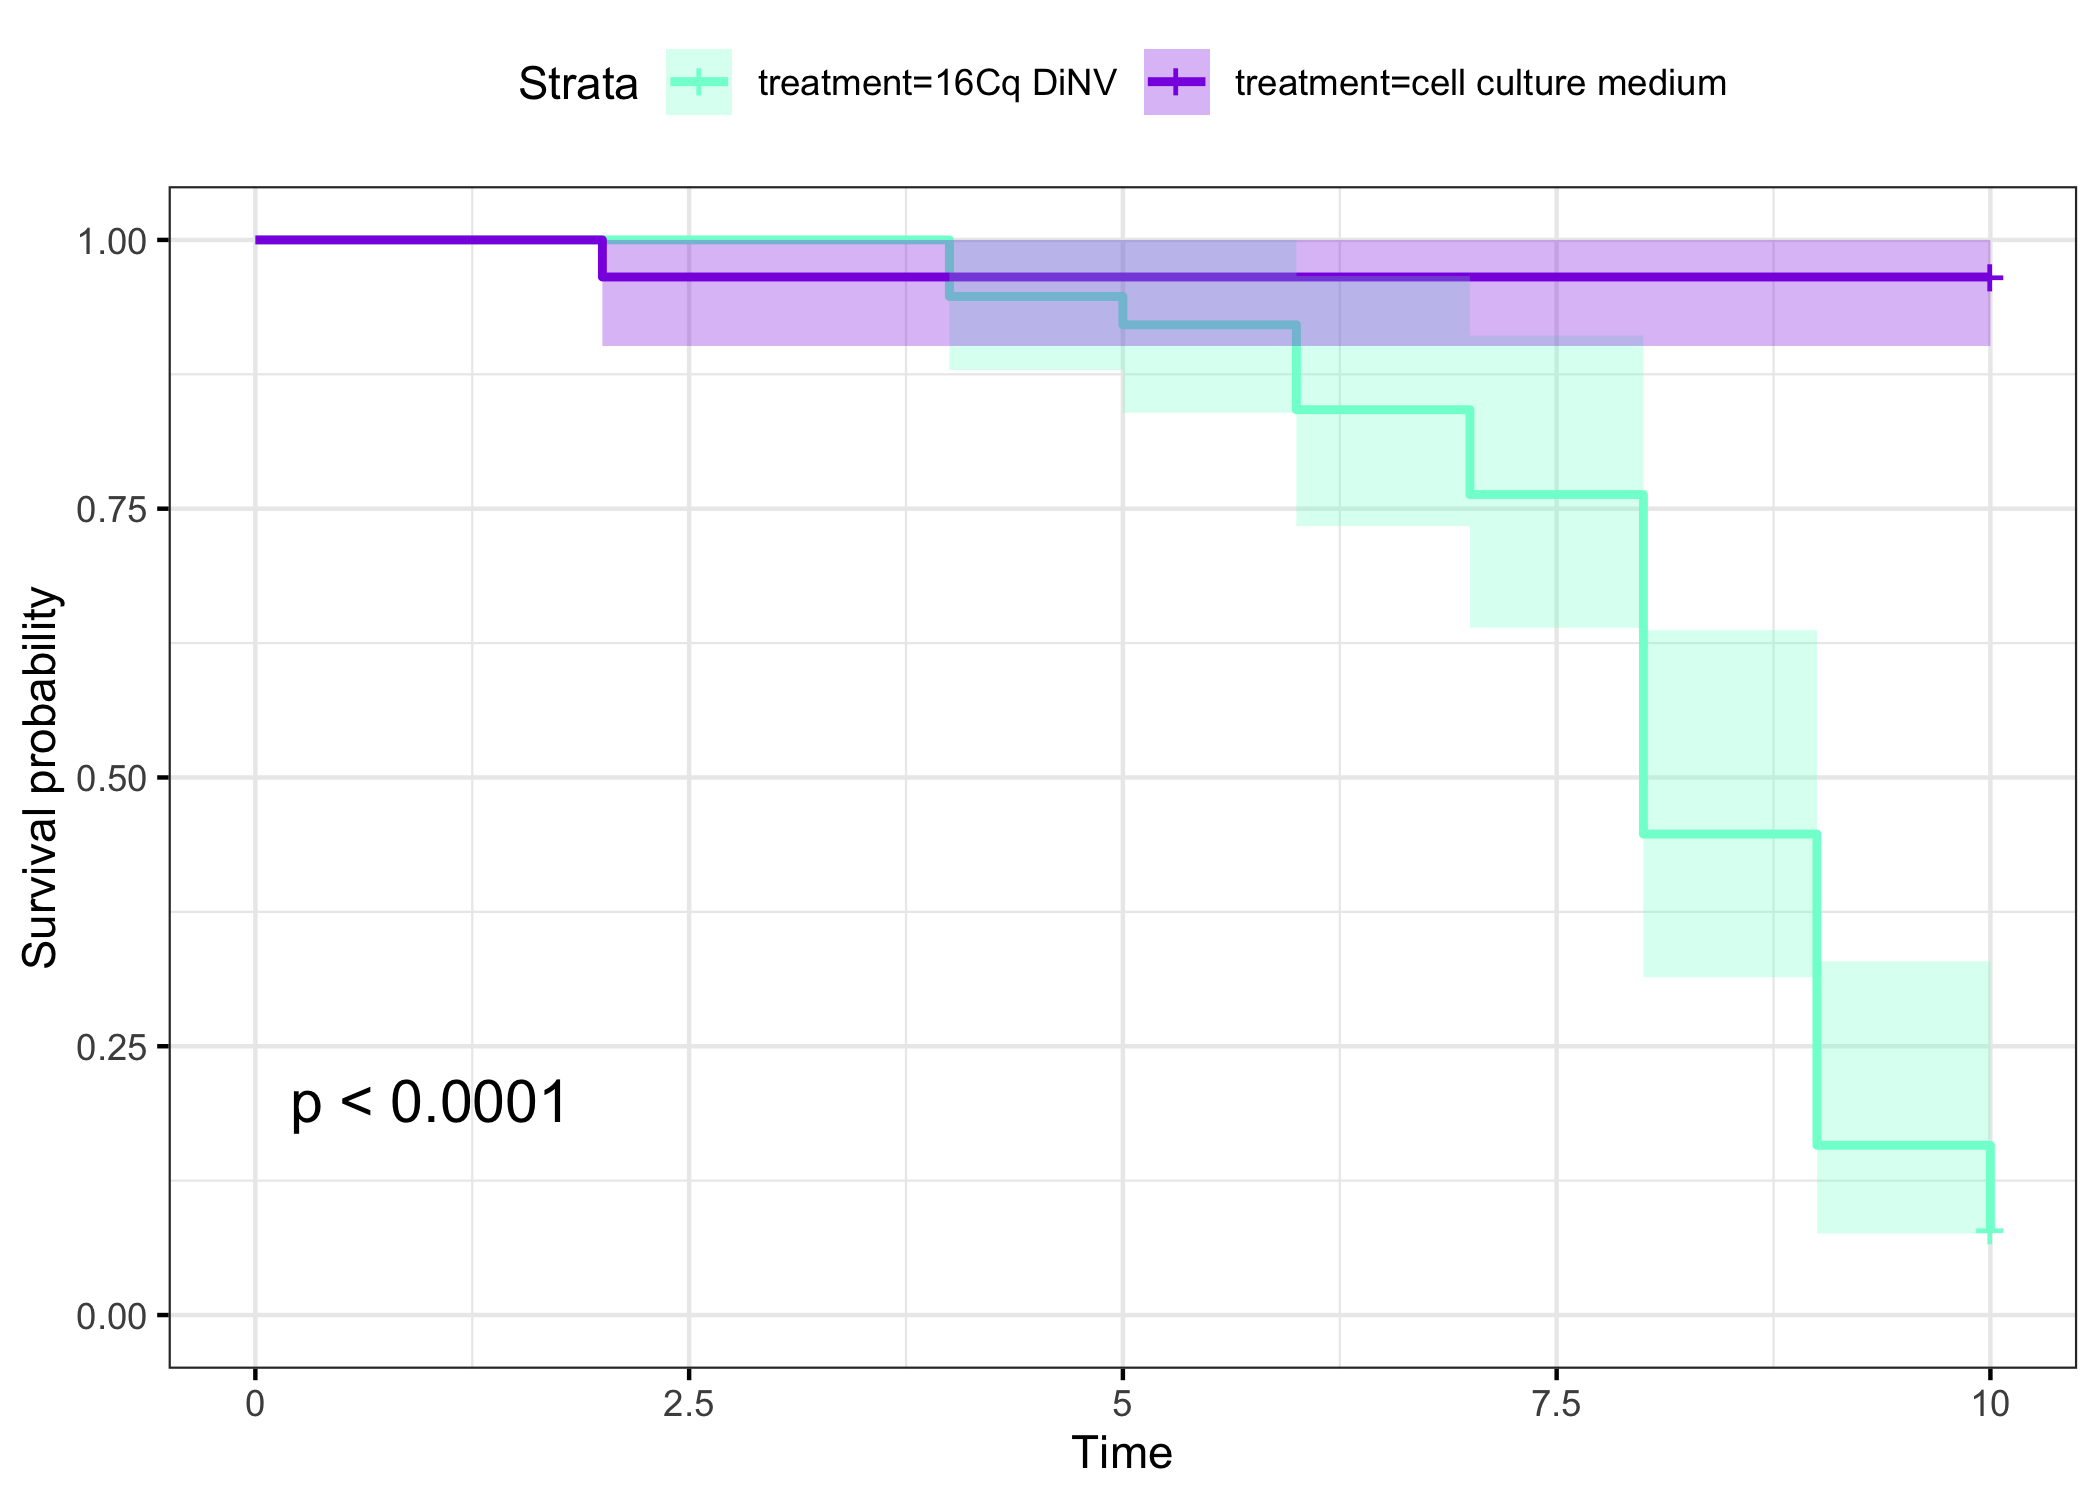
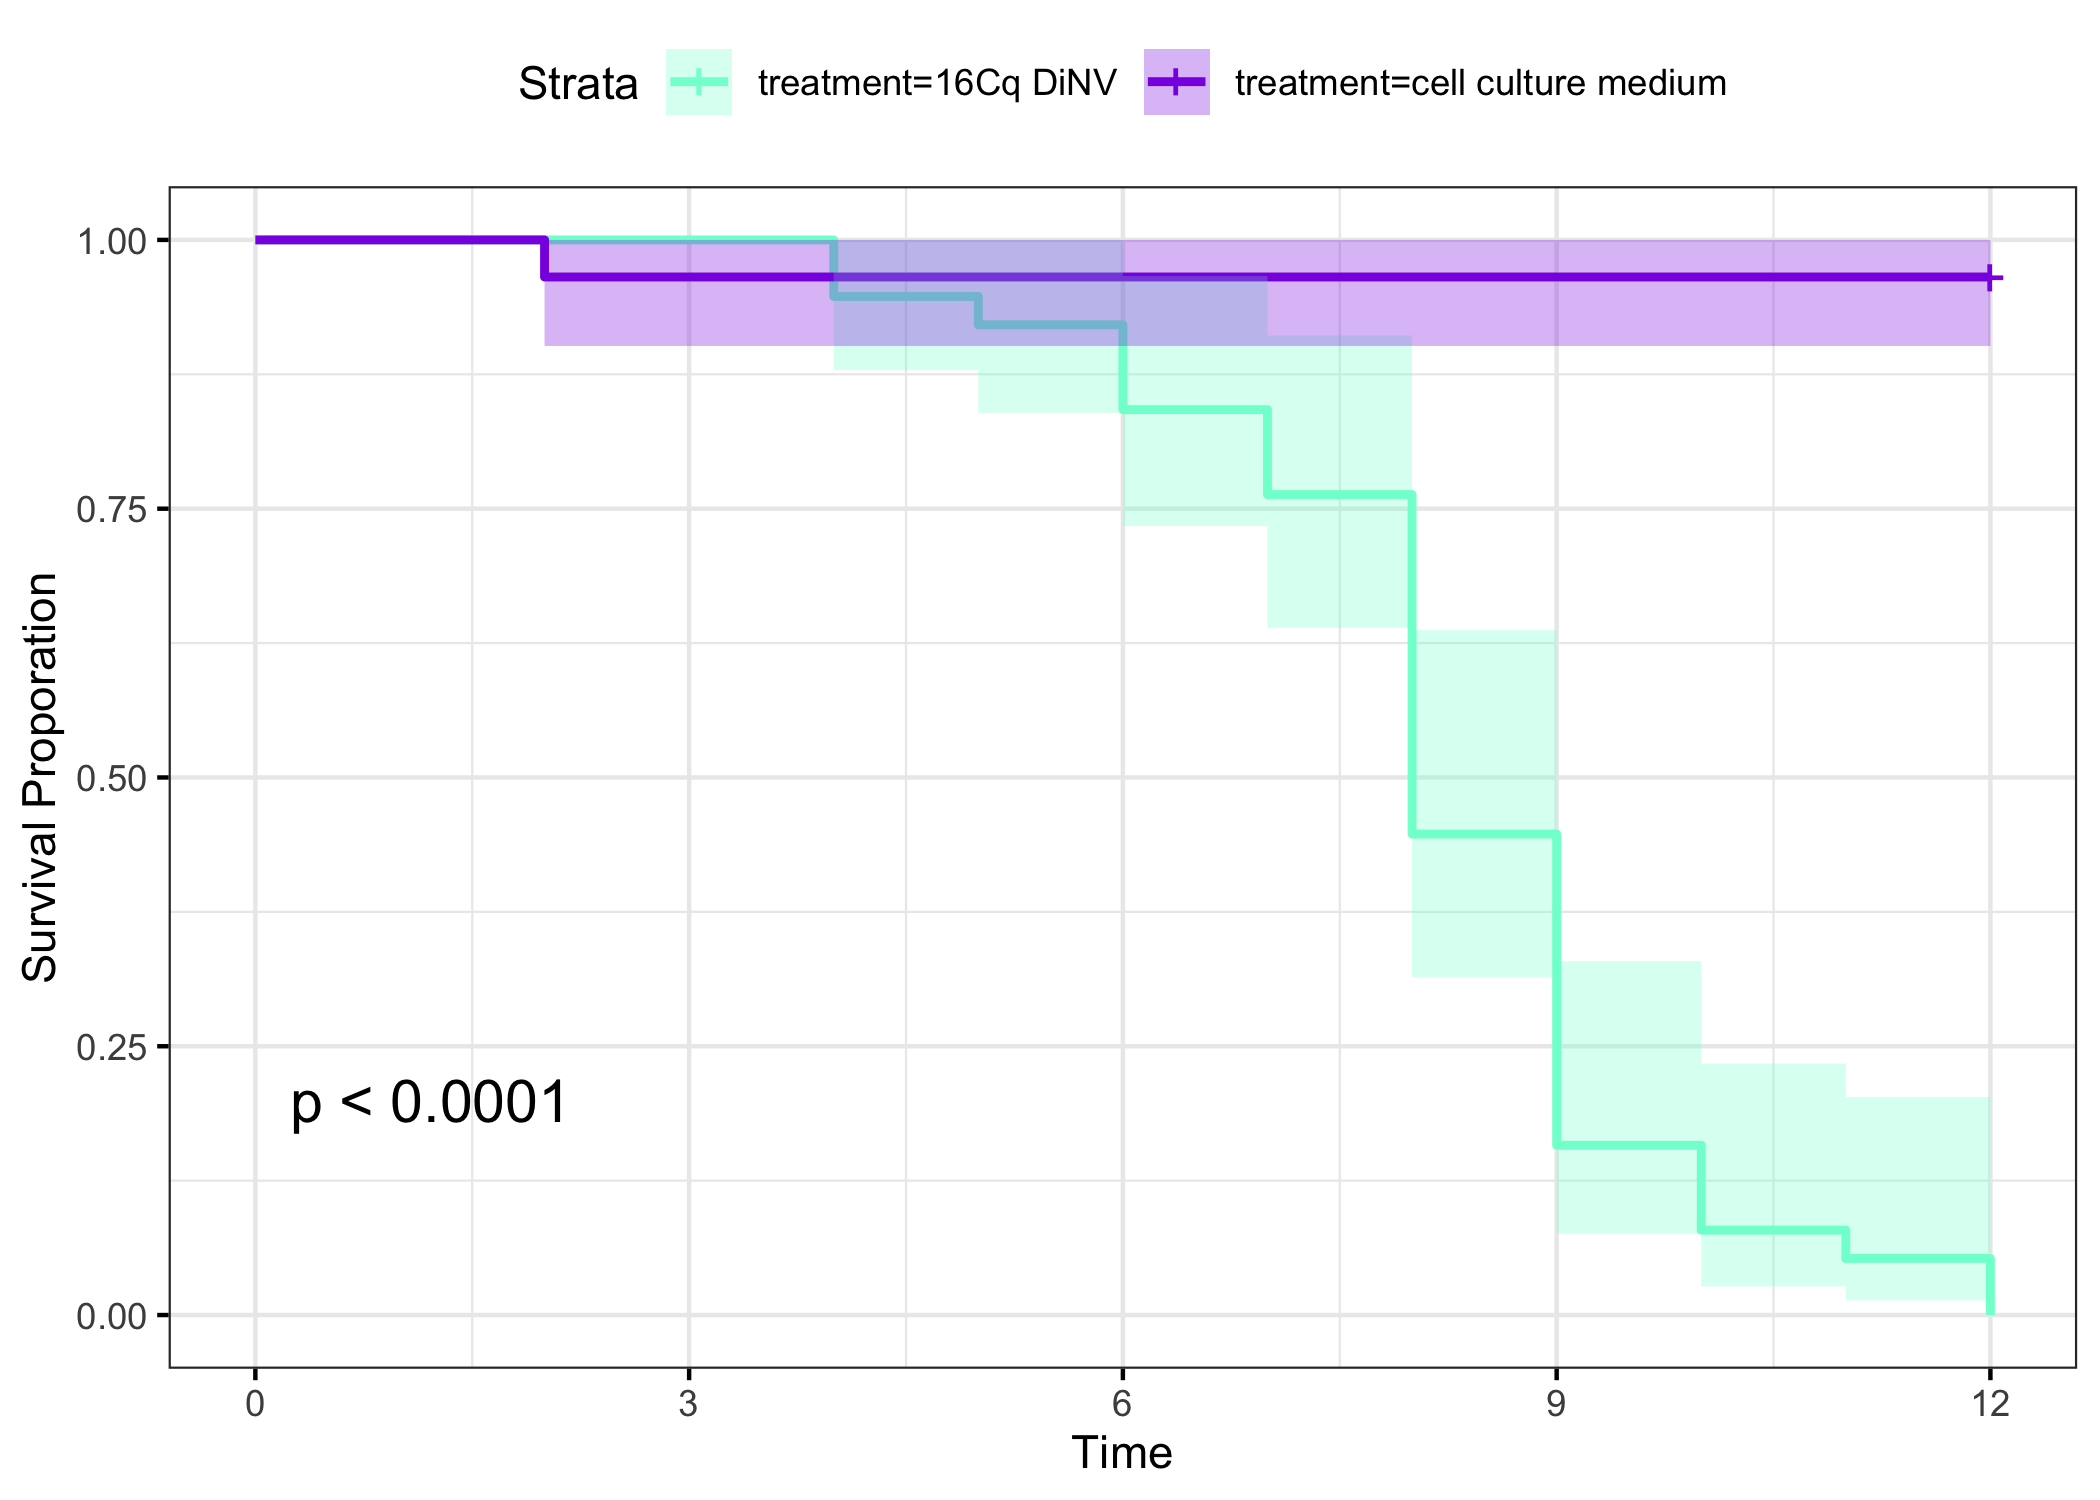
adding analysis

diff --git a/Infection_survival_analyses/20230901-inn-16Cq-injt/20230901-16Cq-innubila-injection-1.md b/Infection_survival_analyses/20230901-inn-16Cq-injt/20230901-16Cq-innubila-injection-1.md
@@ -80,11 +80,11 @@ Read in raw data
 
 ``` r
 #read the file from csv
-df<-read.csv("~/Desktop/Github/Unckless_Lab_Resources/Infection_survival_analyses/20230901-inn-16Cq-injt/20230901-half-sheet.csv")
+df<-read.csv("~/Desktop/Github/Unckless_Lab_Resources/Infection_survival_analyses/20230901-inn-16Cq-injt/20230901-inject-infect-sheet.csv")
 
 # only want columns with vial, treatment, and daily mortality
 # remove columns not needed for each subset
-df<-df[,c(1,7,10:20)]
+df<-df[,c(1,7,10:22)]
 ```
 
 ### Convert each of these dataframes to long and tidy format using function defined above
@@ -103,7 +103,7 @@ ggsurvplot(df_fit,
           #linetype = "strata", # Change line type by groups
           #surv.median.line = "hv", # Specify median survival
           ggtheme = theme_bw(), # Change ggplot2 theme
-          palette = c("aquamarine", "blueviolet"))
+          palette = c("aquamarine", "blueviolet")) + ylab("Survival Proporation")
 ```
 
 ![](20230901-16Cq-innubila-injection-1_files/figure-commonmark/unnamed-chunk-5-1.png)
